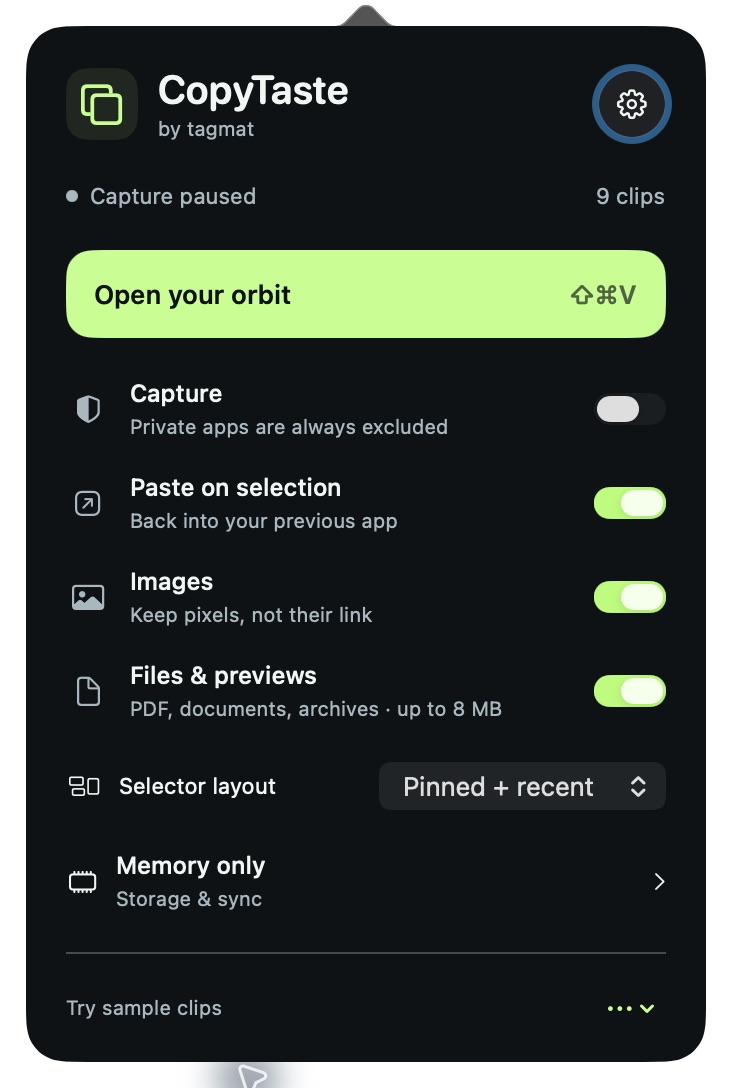
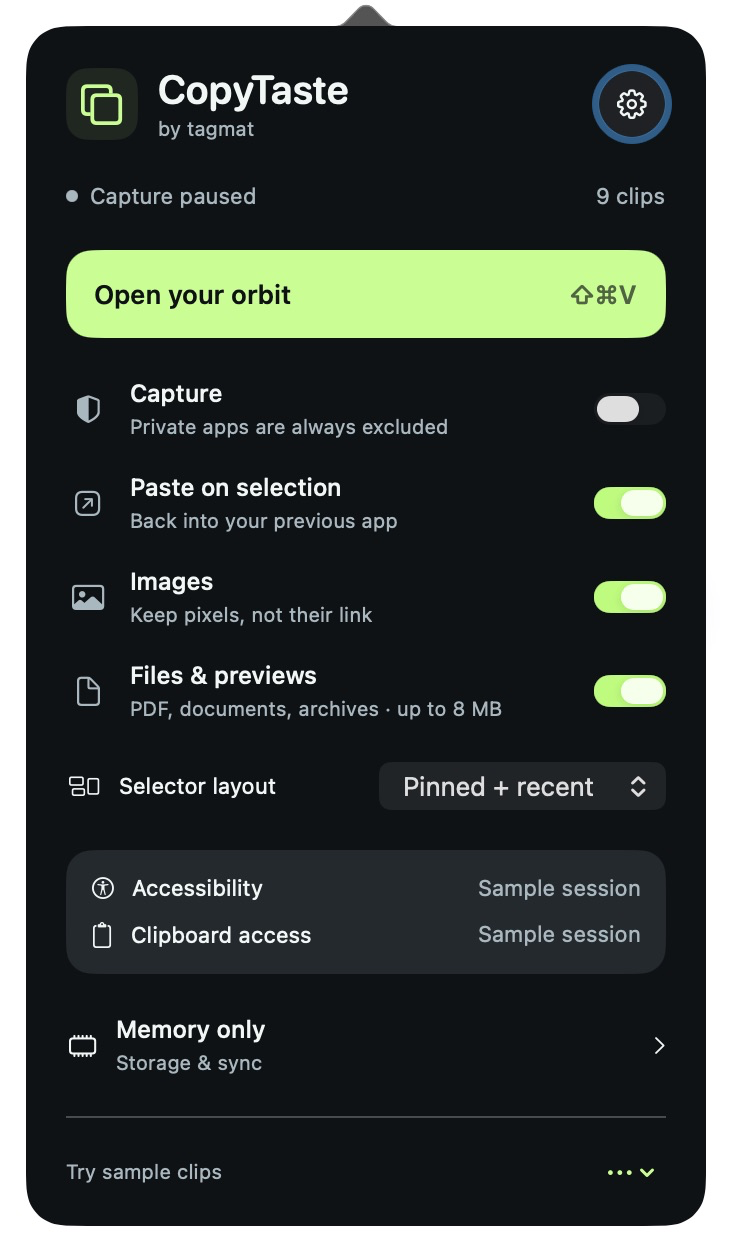
feat: show live clipboard and accessibility permission status

diff --git a/Sources/CopyTaste/QuickSettingsView.swift b/Sources/CopyTaste/QuickSettingsView.swift
@@ -7,7 +7,6 @@ struct QuickSettingsView: View {
     let onPicker: () -> Void
     let onAdvanced: () -> Void
     let onSamples: () -> Void
-    @State private var trusted = PasteService.hasAccess
     @State private var confirmClear = false
 
     var body: some View {
@@ -23,7 +22,7 @@ struct QuickSettingsView: View {
             }
             HStack(spacing: 6) {
                 Circle().fill(model.isCapturing ? Palette.mint : Palette.secondary).frame(width: 6, height: 6)
-                Text(model.isLocked ? "Locked" : (model.isCapturing ? "Capturing" : "Capture paused"))
+                Text(model.isLocked ? "Locked" : (model.isCapturing ? "Capture on" : "Capture paused"))
                 Spacer()
                 Text("\(model.snapshot.entries.count) clips").monospacedDigit()
             }.font(.system(size: 11)).foregroundStyle(Palette.secondary)
@@ -51,15 +50,8 @@ struct QuickSettingsView: View {
                     Text("Single orbit").tag(SelectorLayout.orbit)
                 }.labelsHidden().pickerStyle(.menu).frame(width: 144).font(.system(size: 11))
             }
-            if model.preferences.autoPaste && !trusted && !model.isDemo {
-                VStack(alignment: .leading, spacing: 9) {
-                    Text("One permission. Then just choose.").font(.system(size: 12, weight: .medium))
-                    Text("Allow Accessibility so CopyTaste can paste into the app you came from.")
-                        .font(.system(size: 11)).foregroundStyle(Palette.secondary).fixedSize(horizontal: false, vertical: true)
-                    Button("Enable Direct Paste") { PasteService.requestAccess(); trusted = PasteService.hasAccess }
-                        .buttonStyle(.bordered).controlSize(.small)
-                }.padding(13).frame(maxWidth: .infinity, alignment: .leading).background(Palette.raised, in: RoundedRectangle(cornerRadius: 13))
-            }
+            PermissionStatusView(isDemo: model.isDemo)
+                .padding(12).background(Palette.raised, in: RoundedRectangle(cornerRadius: 13))
             Button(action: onAdvanced) {
                 HStack {
                     Image(systemName: model.preferences.storageMode == .memory ? "memorychip" : "lock.icloud")
@@ -84,8 +76,6 @@ struct QuickSettingsView: View {
             }.font(.system(size: 10))
         }.padding(20).frame(width: 340).foregroundStyle(Palette.text).background(Palette.background)
             .preferredColorScheme(.dark).tint(Palette.mint)
-            .onAppear { trusted = PasteService.hasAccess }
-            .onReceive(NotificationCenter.default.publisher(for: NSApplication.didBecomeActiveNotification)) { _ in trusted = PasteService.hasAccess }
             .alert("Clear all history?", isPresented: $confirmClear) {
                 Button("Cancel", role: .cancel) { }
                 Button("Clear", role: .destructive) { model.clearHistory(); PreviewCache.shared.removeAll() }

diff --git a/Sources/CopyTaste/PermissionStatusView.swift b/Sources/CopyTaste/PermissionStatusView.swift
@@ -1,0 +1,64 @@
+import AppKit
+import SwiftUI
+
+struct PermissionStatusView: View {
+    let isDemo: Bool
+    @State private var accessibilityAllowed: Bool?
+    @State private var clipboardStatus = "Checking…"
+
+    var body: some View {
+        VStack(spacing: 8) {
+            HStack {
+                Label("Accessibility", systemImage: "accessibility")
+                    .help("Required for Paste on selection.")
+                Spacer()
+                Text(accessibilityStatus).foregroundStyle(Palette.secondary)
+                if accessibilityAllowed == false && !isDemo {
+                    Button("Allow…") { PasteService.requestAccess() }
+                        .controlSize(.small)
+                        .accessibilityLabel("Allow Accessibility for direct paste")
+                }
+            }
+            HStack {
+                Label("Clipboard access", systemImage: "clipboard")
+                    .help("System setting for reading clips from other apps.")
+                Spacer()
+                Text(isDemo ? "Sample session" : clipboardStatus)
+                    .foregroundStyle(Palette.secondary)
+            }
+        }
+        .font(.system(size: 11))
+        .task {
+            guard !isDemo else { return }
+            while !Task.isCancelled {
+                refresh()
+                do { try await Task.sleep(for: .seconds(1)) }
+                catch { return }
+            }
+        }
+    }
+
+    private var accessibilityStatus: String {
+        if isDemo { return "Sample session" }
+        switch accessibilityAllowed {
+        case true?: return "Allowed"
+        case false?: return "Not granted"
+        case nil: return "Checking…"
+        }
+    }
+
+    private func refresh() {
+        accessibilityAllowed = PasteService.hasAccess
+        guard #available(macOS 15.4, *) else {
+            clipboardStatus = "Status unavailable"
+            return
+        }
+        switch NSPasteboard.general.accessBehavior {
+        case .default: clipboardStatus = "System default"
+        case .ask: clipboardStatus = "Ask"
+        case .alwaysAllow: clipboardStatus = "Allowed"
+        case .alwaysDeny: clipboardStatus = "Blocked"
+        @unknown default: clipboardStatus = "Status unavailable"
+        }
+    }
+}

diff --git a/Sources/CopyTaste/SettingsView.swift b/Sources/CopyTaste/SettingsView.swift
@@ -74,6 +74,7 @@ struct SettingsView: View {
                     Toggle("Capture images", isOn: Binding(get: { model.preferences.captureImages }, set: { model.setCaptureImages($0) }))
                     Toggle("Capture files", isOn: Binding(get: { model.preferences.captureFiles }, set: { model.setCaptureFiles($0) }))
                     Toggle("Paste on selection", isOn: Binding(get: { model.preferences.autoPaste }, set: { model.setAutoPaste($0) }))
+                    PermissionStatusView(isDemo: model.isDemo)
                     Text("Image pixels are preferred over accompanying links. Files are limited to 8 MB; folders, multiple-file copies, credential vaults and key files are skipped. Image and binary file content is not scanned for every possible secret. Source attribution is best effort.")
                         .font(.system(size: 11)).foregroundStyle(Palette.secondary).fixedSize(horizontal: false, vertical: true)
                     HStack {
@@ -86,8 +87,6 @@ struct SettingsView: View {
                             Spacer(); Button("Remove") { model.removeExclusion(identifier) }
                         }
                     }
-                    Button(PasteService.hasAccess ? "Direct Paste Is Allowed" : "Allow Direct Paste…") { PasteService.requestAccess() }
-                        .disabled(model.isDemo)
                 }
                 section("Collections", symbol: "folder") {
                     HStack {

diff --git a/Tests/CopyTasteCoreTests/PasteServiceTests.swift b/Tests/CopyTasteCoreTests/PasteServiceTests.swift
@@ -29,6 +29,17 @@ final class PasteServiceTests: XCTestCase {
         XCTAssertFalse(sent)
     }
 
+    @MainActor func testRevokedPermissionDuringActivationIsReportedWithoutPosting() async {
+        var trusted = true
+        var sent = false
+        let service = PasteService(trusted: { trusted }, secureInput: { false }, frontmostPID: { 42 },
+            activate: { _ in true }, send: { _ in sent = true }, settle: { trusted = false })
+        let outcome = await service.perform(copy: { true }, destination: PasteDestination(processID: 42, name: "Fixture"),
+            automatic: true, demo: false)
+        XCTAssertEqual(outcome, .permissionRequired)
+        XCTAssertFalse(sent)
+    }
+
     @MainActor func testChangedDestinationAndInvalidatedSessionNeverPaste() async {
         var sent = false
         let service = PasteService(trusted: { true }, secureInput: { false }, frontmostPID: { 99 },

diff --git a/Sources/CopyTaste/PasteService.swift b/Sources/CopyTaste/PasteService.swift
@@ -39,7 +39,9 @@ final class PasteService {
         guard !secureInput(), let destination, destination.processID != ProcessInfo.processInfo.processIdentifier,
               activate(destination.processID) else { return .copied }
         await settle()
-        guard stillValid(), trusted(), !secureInput(), frontmostPID() == destination.processID else { return .destinationChanged }
+        guard stillValid() else { return .destinationChanged }
+        guard trusted() else { return .permissionRequired }
+        guard !secureInput(), frontmostPID() == destination.processID else { return .destinationChanged }
         send(destination.processID)
         return .pasted
     }

diff --git a/Sources/CopyTaste/ClipboardMonitor.swift b/Sources/CopyTaste/ClipboardMonitor.swift
@@ -68,6 +68,7 @@ final class ClipboardMonitor {
         let count = pasteboard.changeCount
         guard count != lastChangeCount else { return }
         lastChangeCount = count
+        if #available(macOS 15.4, *), pasteboard.accessBehavior == .alwaysDeny { return }
         let source = sourceProvider()
         let sourceID = source.bundleID
         let items = pasteboard.pasteboardItems ?? []

diff --git a/docs/TESTING.md b/docs/TESTING.md
@@ -1,6 +1,6 @@
 # Testing
 
-Run `./scripts/test.sh` on a logged-in Mac with Xcode 16 or later. Compiler caches stay inside `.build`. Tests use synthetic text, generated images/PDFs, isolated temporary files and uniquely named pasteboards. They never use the general clipboard, Keychain or a real iCloud account. Direct-paste tests inject activation and event delivery; they never send real input.
+Run `./scripts/test.sh` on a logged-in Mac with Xcode 16.3 or later. Compiler caches stay inside `.build`. Tests use synthetic text, generated images/PDFs, isolated temporary files and uniquely named pasteboards. They never use the general clipboard, Keychain or a real iCloud account. Direct-paste tests inject activation and event delivery. They never send real input.
 
 Coverage includes source/private-marker rejection, content filters, mixed image-and-URL priority, disabled-image skip, file names/contents and symlink rejection, retention, deduplication, filename search, private transfer permissions and cleanup, PDF thumbnails, circular selector slots, recent clips after 100 pins, Markdown blocks, bounded Unicode-safe tokenisation, settings migration, unknown layout fallback and opt-out persistence, destination changes, secure input, missing permission and cancellation during activation. Encryption/sync tests cover authenticated round trips, tampering, nonces, file modes, independent salts, offline deletions, clear boundaries, collection limits and recovery.
 
@@ -14,6 +14,7 @@ Use synthetic data and a dedicated account for permission tests.
 - Copy an image offering both bitmap data and URL text. It must appear as Image and copy back as PNG. Disable images and verify the whole mixed item is skipped.
 - Copy a PDF, text document and archive individually. Check PDF/image thumbnails, text excerpts and native icons. Search by filename. Folders, symlinks, credential/key files and oversized files must be skipped.
 - Grant Accessibility through the explicit quick-settings action. From a disposable text document, open the selector with ⇧⌘V, choose a harmless clip and verify it is pasted automatically. Test image/file destinations that accept those paste types. Denied permission, secure input or changing apps must preserve copy-only fallback without pasting elsewhere.
+- With advanced settings visible, grant and revoke Accessibility and verify the status updates. On macOS 15.4 or later, change Paste from Other Apps to Blocked and verify the clipboard status updates and new synthetic copies are skipped. After restoring access, verify only subsequent copies are captured.
 - Test arrow and wheel/trackpad navigation, Return, Option-Return, Command-P, pin/type/collection filters, hover movement, VoiceOver labels and Reduce Motion. Switch between Pinned + recent and Single orbit. With 100 pins, a new unpinned clip must remain reachable. Demo must never activate another process or post paste input.
 - Preview Markdown headings/lists/fenced code and source files containing comments, strings and Unicode. Ensure previews do not activate links, fetch images or execute code.
 - Select a file, then Clear History or lock. Verify the owned temporary transfer is removed and newer clipboard values are preserved.

diff --git a/docs/VALIDATION.md b/docs/VALIDATION.md
@@ -4,7 +4,7 @@ CopyTaste 0.2 was validated locally using macOS 26.3.1, Xcode 26.5 and Swift 6.3
 
 ## Automated
 
-76 tests passed with synthetic content and isolated native pasteboards/temporary files. New regressions cover mixed image/URL representations, files and symlinks, file transfer cleanup, filename search, in-memory PDF previews, selector slots, a recent clip after 100 pins, Markdown blocks, bounded Unicode-safe syntax tokens, preference migration, unknown layout fallback and destination-safe direct-paste decisions. Real keystroke injection is replaced by a test sink.
+77 tests passed with synthetic content and isolated native pasteboards/temporary files. Regressions cover mixed image/URL representations, files and symlinks, file transfer cleanup, filename search, in-memory PDF previews, selector slots, a recent clip after 100 pins, Markdown blocks, bounded Unicode-safe syntax tokens, preference migration, unknown layout fallback and destination-safe direct-paste decisions. The permission revocation regression confirms that a loss of trust during activation leaves the clip copied and sends no event to the test sink.
 
 Release builds succeeded for arm64 and x86_64. The clean distribution ZIP is built and ad-hoc signed in a temporary staging directory outside folder-sync metadata. Bundle metadata and shell syntax checks passed. Test vaults, transfer fixtures and build staging directories were cleaned. No Docker resources were needed.
 
@@ -13,6 +13,8 @@ Release builds succeeded for arm64 and x86_64. The clean distribution ZIP is bui
 A separately identified preview app used synthetic clips and an isolated pasteboard, with global-hot-key registration disabled. It did not restart or clear the user's live CopyTaste memory session. The selector, menu-bar settings bubble, image/PDF/text previews and file filter were inspected. The final visual pass confirmed readable dark control capsules, opaque spatial cards, mint selection, real PDF thumbnails and text-file excerpts. All source findings from the bounded review were corrected: clearing outgoing transfers/cache, filename search and distinguishable VoiceOver card labels.
 
 In the unlocked sample session, a scroll event moved selection from a link to the next image. Show all pins revealed the two sample pins. Switching to Single orbit removed the split, and the Files filter showed formatted Markdown, coloured Swift tokens and a PDF thumbnail. The final build puts the split captions on dark surfaces and leaves room for card shadows. README screenshots show these final sample surfaces. PNG exports were checked for text, EXIF and time chunks. The GIF was assembled from reencoded pixel frames.
+
+The Accessibility and Clipboard access rows were checked in both settings surfaces using the sample session. Live macOS permission changes still need a manual test.
 
 ## Not certified
 

diff --git a/README.md b/README.md
@@ -20,7 +20,7 @@ History stays in RAM by default. Capture starts only after you enable it. The me
 
 ## Run
 
-Requires macOS 14 or later and Xcode 16 or later (Swift 6). No third-party packages are needed.
+The app runs on macOS 14 or later. Building requires Xcode 16.3 or later for the macOS 15.4 pasteboard API. No third-party packages are needed.
 
 ```sh
 ./scripts/build-app.sh --universal
@@ -60,9 +60,11 @@ Cards fan out with staggered springs, respond to pointer movement, move through 
 
 ## Direct paste
 
-**Paste on selection** is enabled by default. Open the menu-bar bubble and choose **Enable Direct Paste** to grant macOS Accessibility access. CopyTaste only sends Command-V to the original destination process after checking permission, secure input, activation and session validity. It does not install a global keystroke logger.
+**Paste on selection** is enabled by default. Open the menu-bar bubble and check **Accessibility**. Choose **Allow…** to request access when needed. CopyTaste only sends Command-V to the original destination process after checking permission, secure input, activation and session validity.
 
 If access is missing, a destination disappears or focus changes, the item is copied instead and no paste is sent to an unrelated app. Copy-only remains available. The sample selector never activates a destination or sends keyboard events. Real destination support depends on the receiving app and the selected content type.
+
+Quick and advanced settings refresh **Accessibility** and **Clipboard access** while visible. On macOS 15.4 or later, clipboard access shows the system setting for reading copies from other apps. If it is blocked, new clips are skipped. Check the Paste from Other Apps setting in macOS Privacy & Security. On earlier macOS versions the clipboard status is unavailable.
 
 ## Images, files and small previews
 

diff --git a/SECURITY.md b/SECURITY.md
@@ -70,3 +70,5 @@ Selecting Copy or Paste for a file materialises an outgoing file in a unique own
 Automatic paste is a separate, optional delivery action after an explicit item selection. It requires Accessibility permission; CopyTaste cannot grant that permission itself. Copy-only and demo modes never post input. The app copies first, validates the requested process, activates it, waits briefly and checks trust, secure input, foreground PID and session generation again. Events are addressed to the original PID through CGEvent.postToPid, rather than sent indiscriminately to whichever app gains focus. Locking or reopening the selector cancels an in-flight paste. No global event tap, keystroke logger or Input Monitoring entitlement is used.
 
 Missing permission or failed destination validation leaves a copy available for manual paste. CGEvent delivery has no acknowledgement that the receiving app accepted the content; app-specific paste formats still matter. Real Accessibility approval and cross-app delivery need manual OS testing. Local ad-hoc rebuilds can require permission reapproval; use a stable Developer ID for distribution.
+
+While settings are visible, CopyTaste queries its Accessibility trust and, on macOS 15.4 or later, the system pasteboard access policy. These status checks do not read clipboard contents or display permission prompts. The Allow button explicitly requests Accessibility. When the system policy blocks programmatic pasteboard access, the capture monitor skips the change before requesting item metadata or contents. The policy can be inspected separately from the Capture switch.
